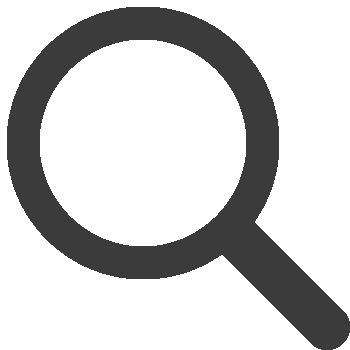
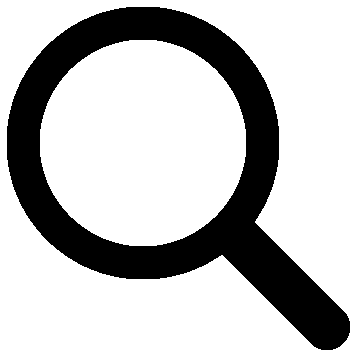
Adjusting the styles of the previous change

Changed region(s): [[0.0, 0.0, 1.0, 1.0]]

diff --git a/src/components/Posts/MyPosts/MyPosts.jsx b/src/components/Posts/MyPosts/MyPosts.jsx
@@ -5,6 +5,7 @@ import PostCreationContainer from "./PostCreation/PostCreationContainer"
 import CreatePost from "./../../../assets/images/editWhite.png"
 import CreatePostLight from "./../../../assets/images/edit.png"
 import Search from "./../../../assets/images/searchW.png"
+import SearchB from "./../../../assets/images/searchB.png"
 
 const MyPosts = props => {
   const [focus, setFocus] = useState(false)
@@ -45,9 +46,9 @@ const MyPosts = props => {
               //   setFocus(!focus)
               // }}
             >
-              <form className={p.forma} action='' autocomplete='on'>
+              <form className={p.forma} action='' autocomplete='off'>
                 <input
-                  id='search'
+                  className={p.search}
                   name='search'
                   type='text'
                   placeholder='Post search'
@@ -57,9 +58,10 @@ const MyPosts = props => {
                   onBlur={() => {
                     setFocus(!focus)
                   }}
+                  // autocomplete='off'
                 />
                 <img
-                  src={Search}
+                  src={props.theme == "lightTheme" ? SearchB : Search}
                   className={p.searchSubmit}
                   value='Rechercher'
                   type='submit'

diff --git a/src/components/Posts/MyPosts/MyPosts.module.css b/src/components/Posts/MyPosts/MyPosts.module.css
@@ -36,16 +36,16 @@
   height: 100%;
   display: grid;
 }
-input[type="text"] {
+.search {
   box-sizing: border-box;
   height: 100%;
   font-size: 20px;
   display: inline-block;
-  font-family: "Lato";
-  font-weight: 100;
+  /* font-family: "Lato"; */
+  /* font-weight: 100; */
   border: none;
   outline: none;
-  color: rgb(141, 137, 137);
+  color: var(--fontColor);
   padding: 5px 40px 2px 5px;
   /* padding-right: 40px; */
   width: 0px;
@@ -58,14 +58,14 @@ input[type="text"] {
   cursor: pointer;
 }
 
-input[type="text"]:focus:hover {
+.search:focus:hover {
   border-bottom: 1px solid var(--BorderBottom);
 }
 
-input[type="text"]:focus {
+.search:focus {
   width: 100%;
   z-index: 1;
-  border-bottom: 1px solid #bbb;
+  border-bottom: 1px solid var(--BorderBottom);
   cursor: text;
 }
 .searchSubmit {
